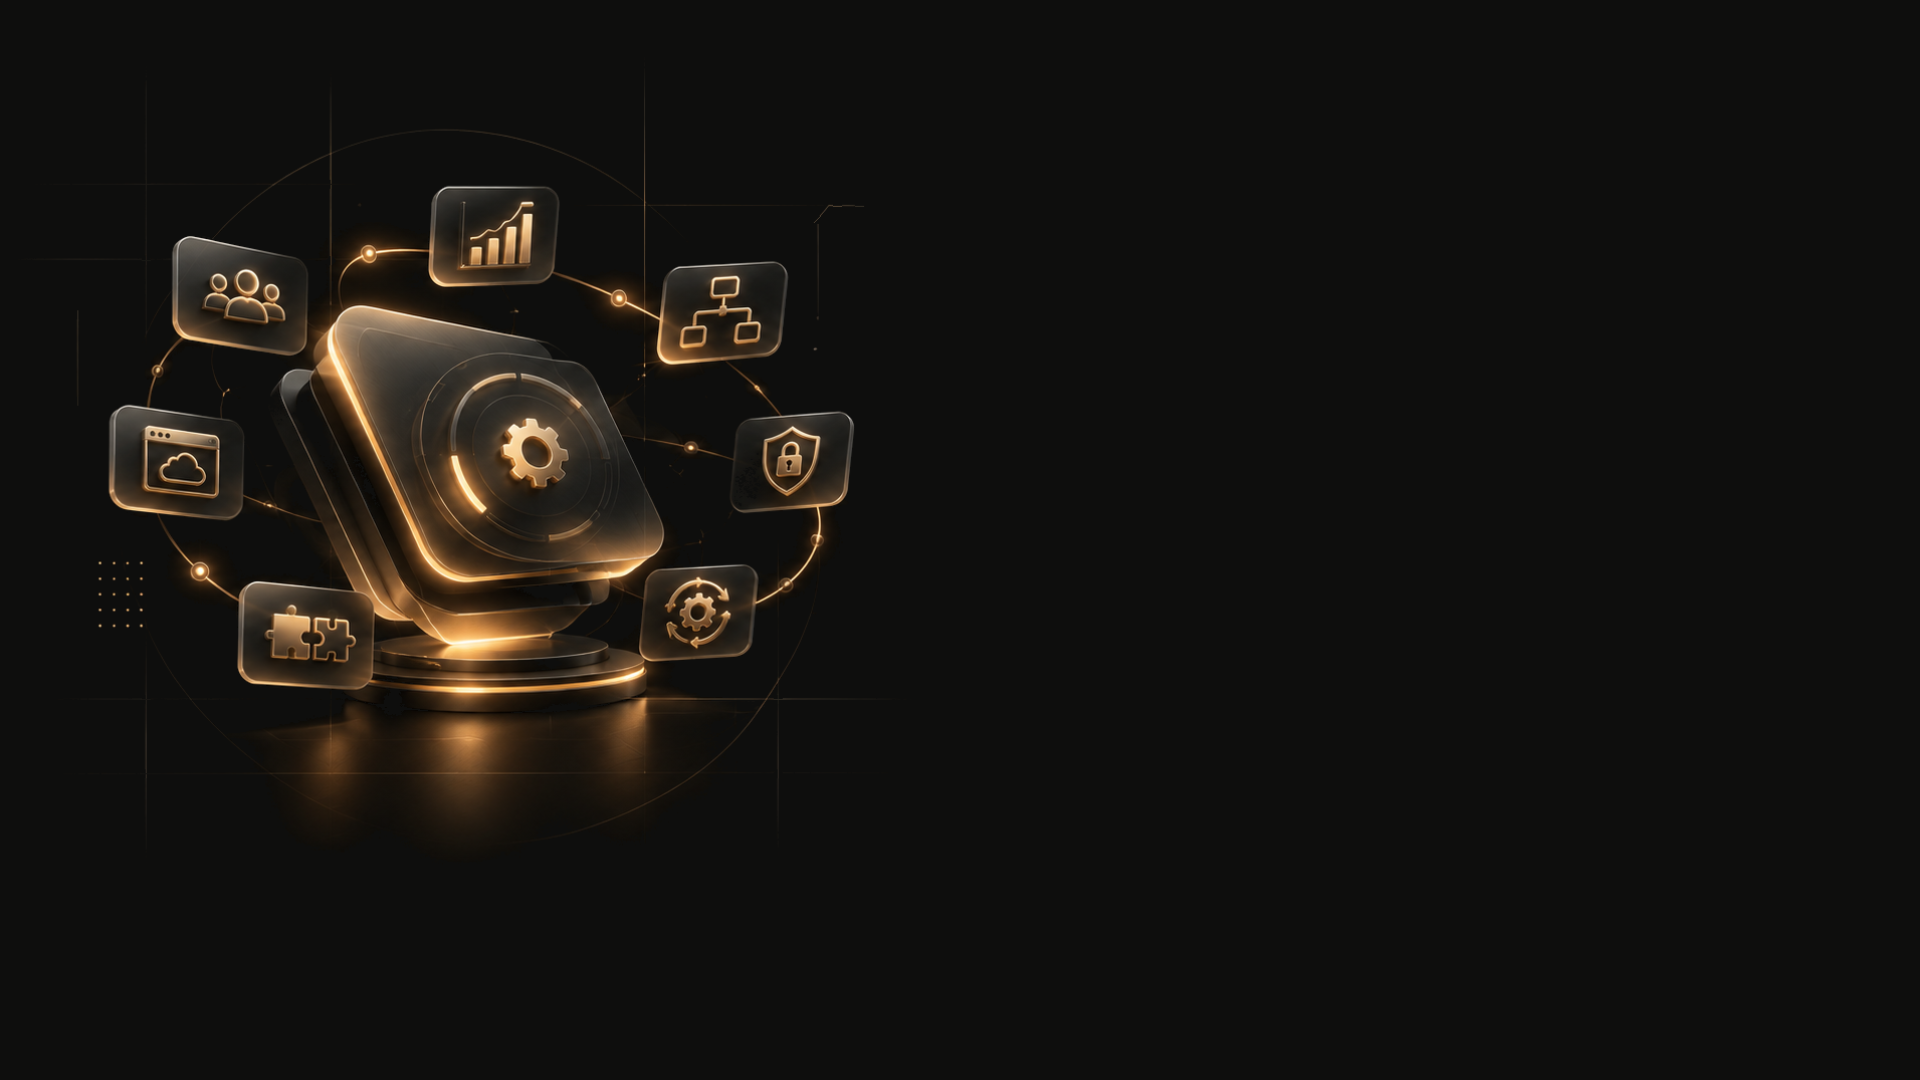
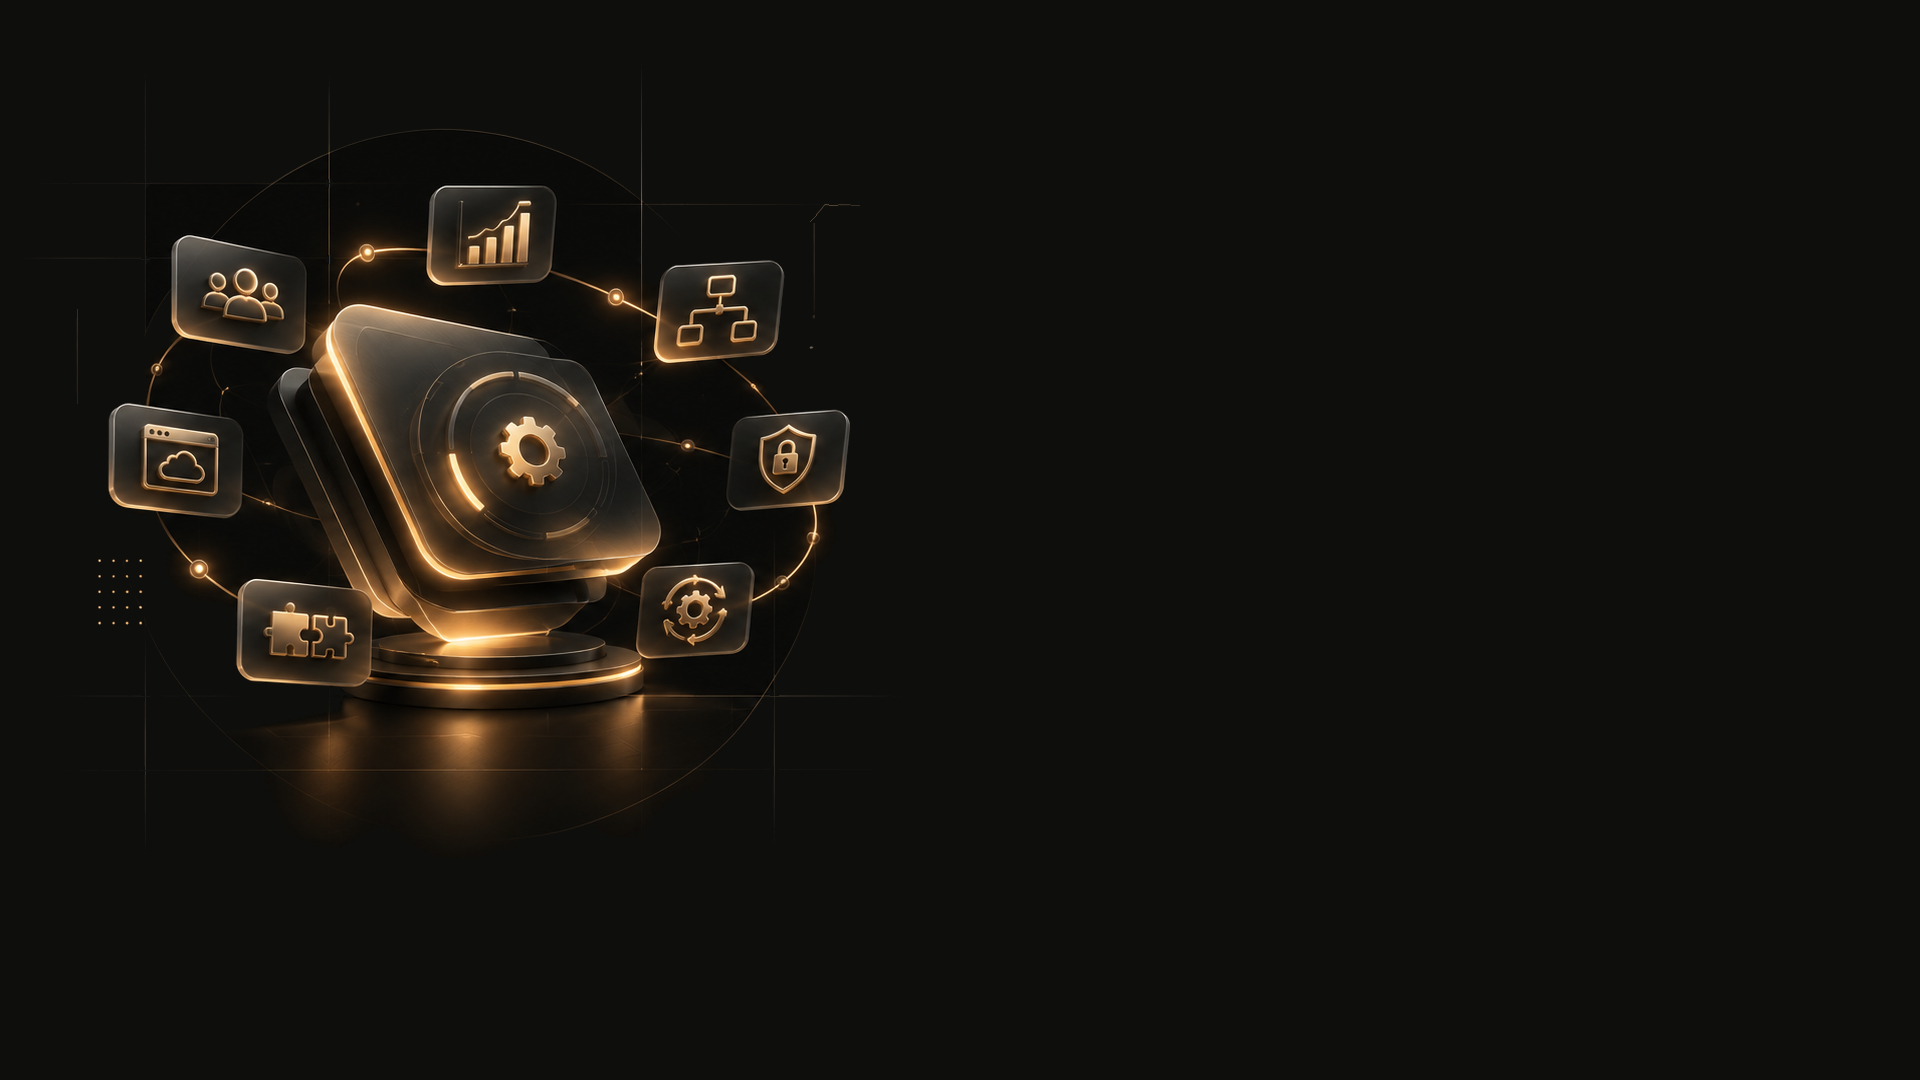
ADD

diff --git a/Corporate-Webtalik/radmanct/inc/client.php b/Corporate-Webtalik/radmanct/inc/client.php
@@ -74,11 +74,20 @@ add_filter('radmanct/page-title/data',static function(array $data):array {
   $data['media_inset']=true;
   $data['media_flat']=true;
   $data['art_tracks']=array(
-   array('M214.02 240.14 C272.3 177.85 359.71 130.62 450.14 130.62 C523.49 130.62 591.82 157.75 644.07 204.98',30,.3),
-   array('M748.56 738.52 C713.4 773.68 673.21 799.81 633.01 815.89',26,.6),
-   array('M411.96 840 C321.53 823.92 241.15 781.72 190.91 713.4',32,.4)
+   array('M213 239 C271 177 358 130 448 130 C521 130 589 157 641 204',30,.3),
+   array('M745 735 C710 770 670 796 630 812',26,.6),
+   array('M410 836 C320 820 240 778 190 710',32,.4)
   );
-  $data['art_nodes']=array(array(145.69,183.88),array(330.57,183.88),array(859.09,205.98),array(777.7,699.33),array(145.69,773.68),array(776.7,773.68));
+  $data['art_nodes']=array(array(145,183),array(329,183),array(855,205),array(774,696),array(145,770),array(773,770));
+ }elseif(is_page('mobile-app-design-development')){
+  $data['media_inset']=true;
+  $data['media_flat']=true;
+  $data['art_tracks']=array(
+   array('M366 102 C432 86 508 95 570 128',30,.35),
+   array('M757 705 C730 759 685 800 633 825',28,.6),
+   array('M270 150 C206 196 157 256 127 320',32,.4)
+  );
+  $data['art_nodes']=array(array(337,114),array(618,166),array(823,222),array(98,417),array(777,663),array(242,739));
  }elseif(is_page('about-us')){
   $data['media_inset']=true;
   $data['media_flat']=true;

diff --git a/Corporate-Webtalik/docs/architecture.md b/Corporate-Webtalik/docs/architecture.md
@@ -94,7 +94,11 @@ Title CSS loads only where the title is used. A valid cover image or video loads
 
 ## Web systems hero artwork
 
-`admin-panel-web-systems` از `ChatGPT Image Nov 13, 2026, 10_07_51 PM.png` و `systems-hero-flat-background.png` استفاده میکند: قاب ۱۹۲۰×۱۰۸۰، تصویر در ۱۶۸۰×۹۴۵ و زمینهٔ واقعی #0e0e0d. سه مسیر روی قوس موجود تصویر و شش نقطهٔ ثابت هماندازه از renderer مشترک میآیند؛ art_draw خاموش است. فقط نقطههای کوچک تزئینیِ رستری هماندازهسازی شوند؛ اتصالهای درخشانِ ماژولها جزو خود تصویرند. خط، شبکهٔ نقطهای، رنگ طلایی و ساختار تصویر حفظ شوند. CSS/JS صفحه یا موتور تازه ندارد.
+`admin-panel-web-systems` از `ChatGPT Image Nov 13, 2026, 10_07_51 PM.png` و `systems-hero-flat-background.png` استفاده میکند: قاب ۱۹۲۰×۱۰۸۰، تصویر در ۱۶۸۰×۹۴۵ و زمینهٔ واقعی #0e0e0d. سه مسیر روی قوس موجود تصویر و شش نقطهٔ ثابت هماندازه از renderer مشترک میآیند؛ art_draw خاموش است. پیکسلهای تصویر اصلی این طرح بهصورت ۱:۱ داخل قاب کپی شوند؛ resampling انجام نشود و مختصات مسیرها در مقیاس بومی عکس بمانند. اصلاح نزدیکمشکی فقط روی نواحیِ زمینهٔ متصل به لبهها انجام شود، نه داخل سطوح/سایههای بستهٔ سوژه. فقط نقطههای کوچک تزئینیِ رستری هماندازهسازی شوند؛ اتصالهای درخشانِ ماژولها جزو خود تصویرند. خط، شبکهٔ نقطهای، رنگ طلایی و ساختار تصویر حفظ شوند. CSS/JS صفحه یا موتور تازه ندارد.
+
+## Mobile service hero artwork
+
+`mobile-app-design-development` از `تصميم اپلیکیشن موبایل با درخشش طلایی.png` و نسخهٔ `mobile-hero-flat-background.png` استفاده میکند. تصویر اصلی بهصورت ۱:۱ داخل قاب ۱۹۲۰×۱۰۸۰ کپی میشود؛ اصلاح رنگ فقط زمینهٔ متصل به لبهها را هدف میگیرد و فضای خالی راست #0e0e0d ثابت دارد. سه مسیر روی قوسهای خود عکس و شش نقطهٔ ثابت از اندازهٔ مشترک مصرف میشوند؛ خطوط، نقش نقطهای و آیکونهای Android/Apple حفظ شوند. عکس، CSS و runtime مصرفکنندگان دیگر تغییر نکنند؛ موتور/استایل موازی اضافه نشود.
 
 ## Heading semantics
 
